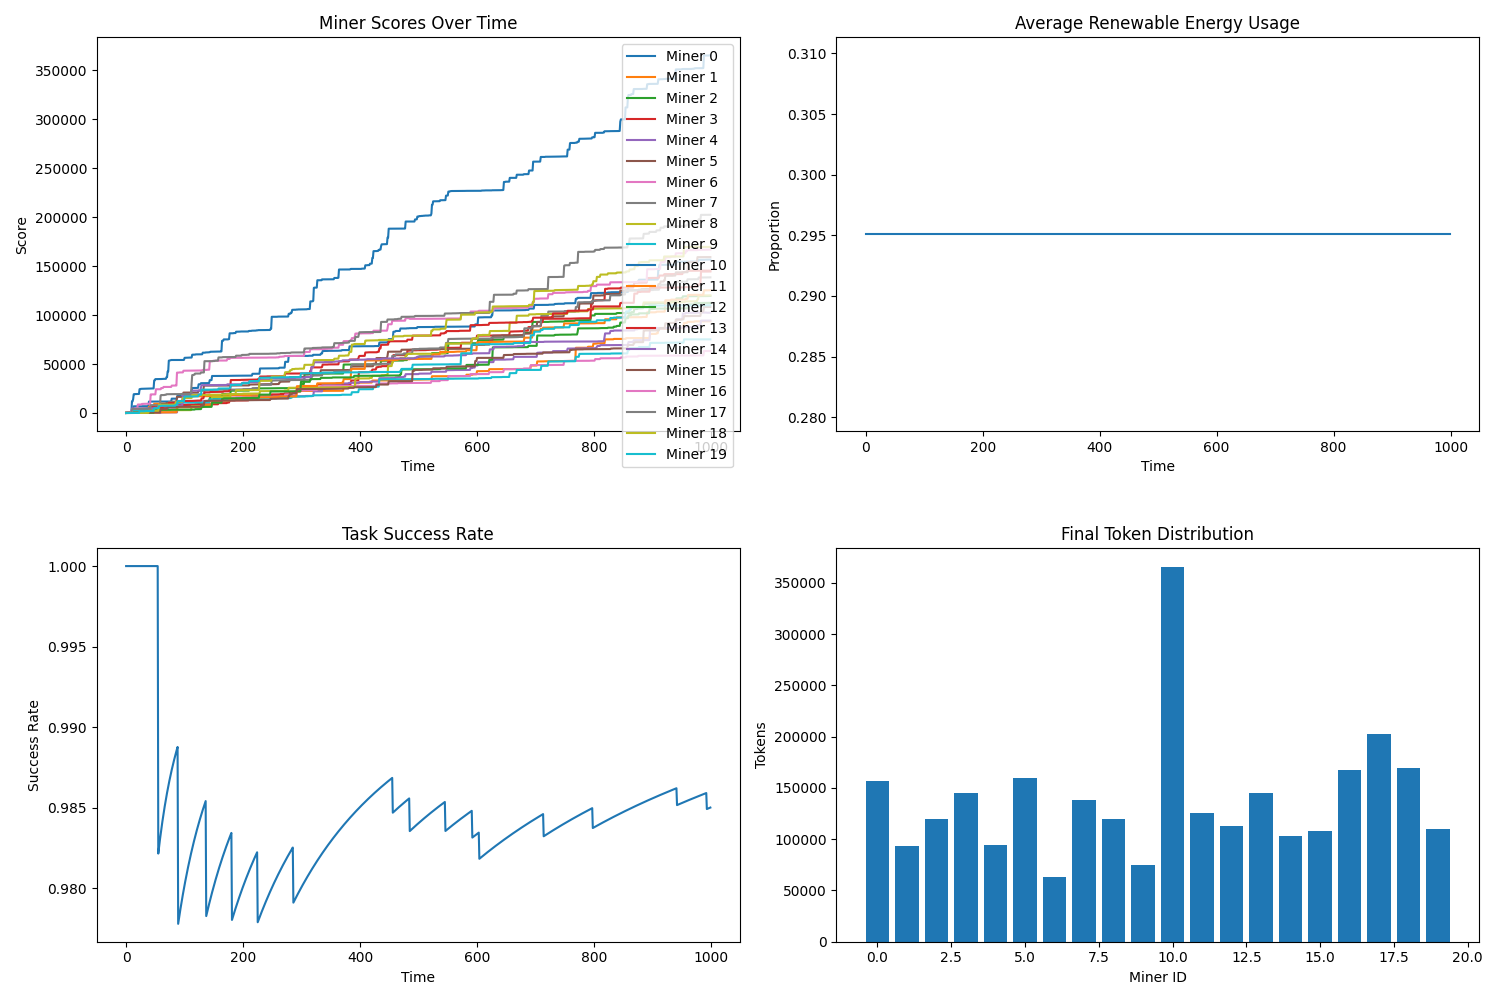
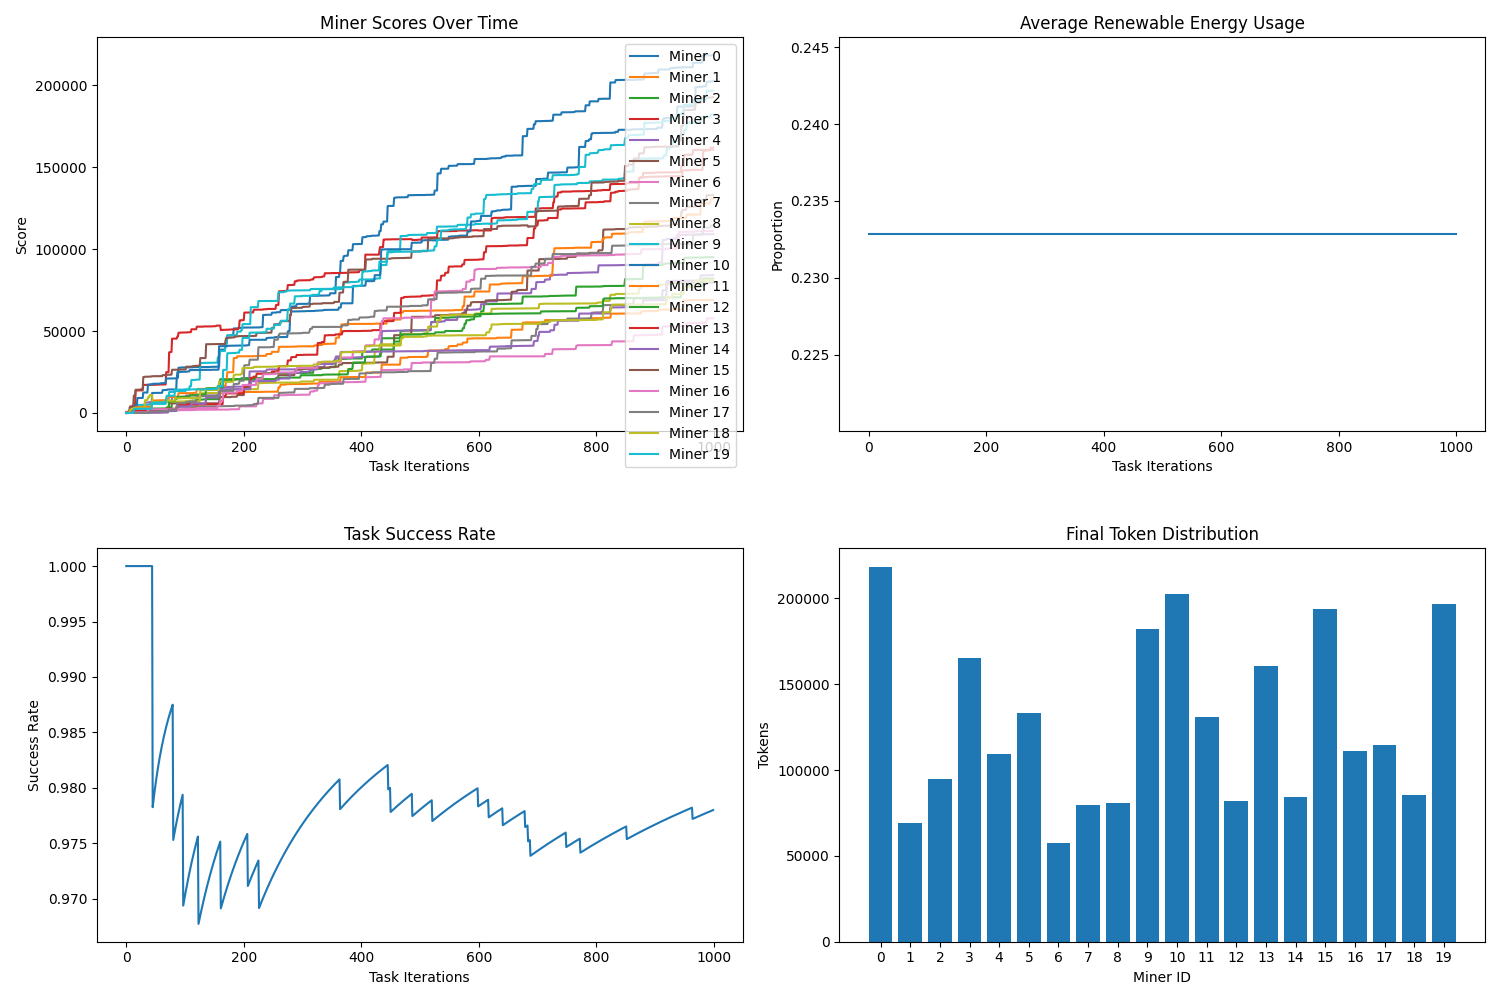
add task iterations

diff --git a/visualization.py b/visualization.py
@@ -38,29 +38,31 @@ class Visualizer:
         for miner_id, scores in self.miner_scores_history.items():
             ax1.plot(scores, label=f'Miner {miner_id}')
         ax1.set_title('Miner Scores Over Time')
-        ax1.set_xlabel('Time')
+        ax1.set_xlabel('Task Iterations')
         ax1.set_ylabel('Score')
         ax1.legend()
 
         # Plot renewable energy usage
         ax2.plot(self.renewable_energy_history)
         ax2.set_title('Average Renewable Energy Usage')
-        ax2.set_xlabel('Time')
+        ax2.set_xlabel('Task Iterations')
         ax2.set_ylabel('Proportion')
 
         # Plot task success rate
         ax3.plot(self.task_success_history)
         ax3.set_title('Task Success Rate')
-        ax3.set_xlabel('Time')
+        ax3.set_xlabel('Task Iterations')
         ax3.set_ylabel('Success Rate')
 
         # Plot final token distribution
         miner_ids = list(self.token_distribution_history.keys())
         final_tokens = [history[-1] for history in self.token_distribution_history.values()]
-        ax4.bar(miner_ids, final_tokens)
+        ax4.bar(range(len(miner_ids)), final_tokens)
         ax4.set_title('Final Token Distribution')
         ax4.set_xlabel('Miner ID')
         ax4.set_ylabel('Tokens')
+        ax4.set_xticks(range(len(miner_ids)))
+        ax4.set_xticklabels([str(mid) for mid in miner_ids])
 
         plt.tight_layout()
         plt.savefig('simulation_results.png')
